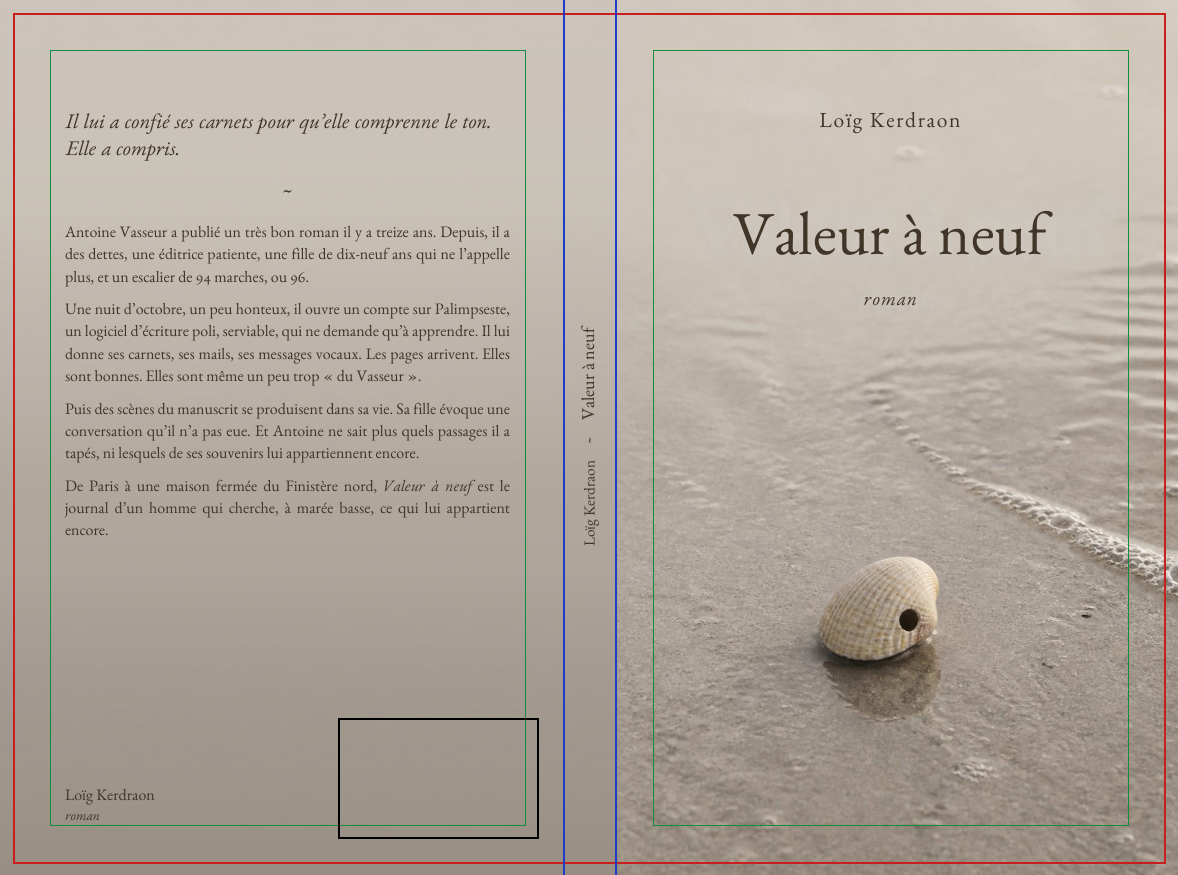
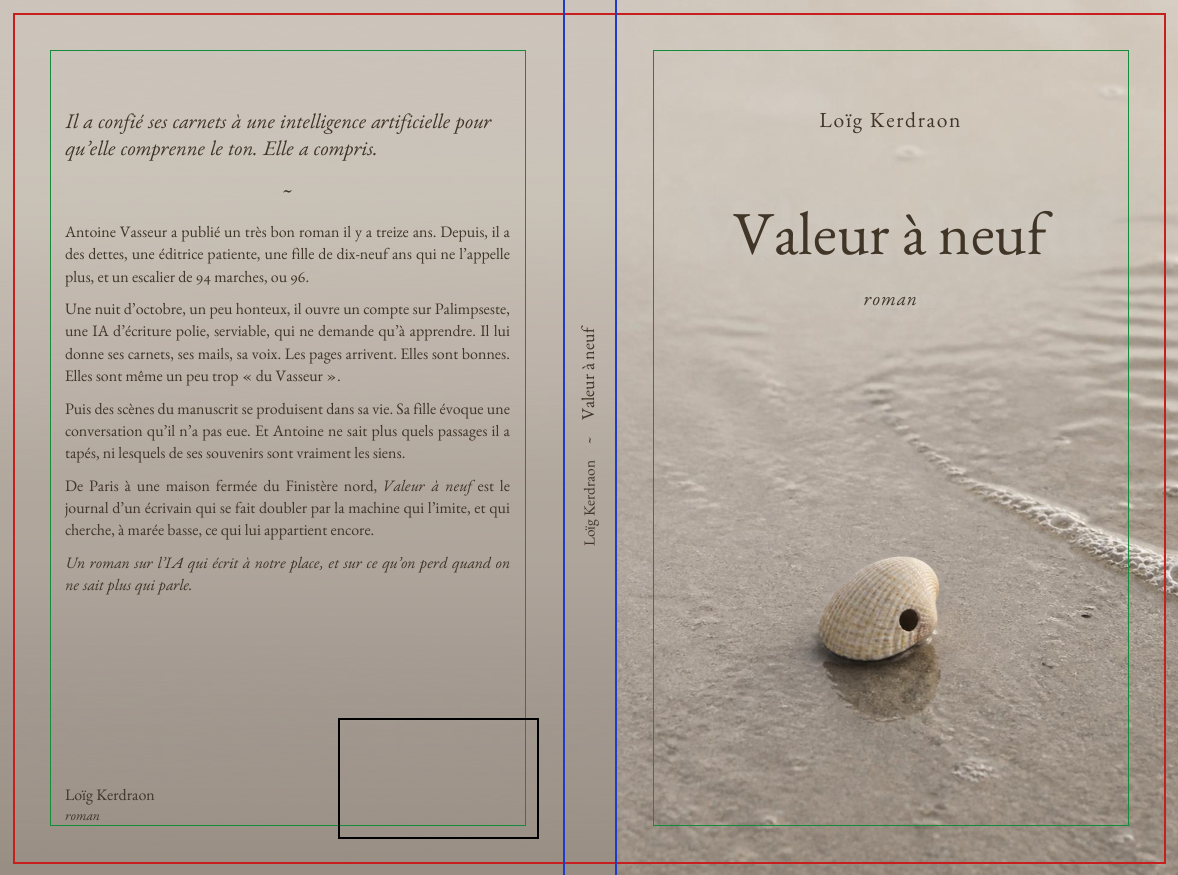
Quatrième et fiche Amazon : l'IA mise en avant, répétition « appartient encore » supprimée
Claude-Session: https://claude.ai/code/session_019M4foyq87Zm718jiSc4m96

diff --git a/outils/couverture.py b/outils/couverture.py
@@ -39,20 +39,21 @@ SECURITE = 0.375                            # marge intérieure du texte (KDP : 
 MARGE_DOS = 0.0625
 CODE_BARRES = (2.0, 1.2)
 
-ACCROCHE = "Il lui a confié ses carnets pour qu’elle comprenne le ton. Elle a compris."
+ACCROCHE = "Il a confié ses carnets à une intelligence artificielle pour qu’elle comprenne le ton. Elle a compris."
 QUATRIEME = [
     "Antoine Vasseur a publié un très bon roman il y a treize ans. Depuis, il a des dettes, "
     "une éditrice patiente, une fille de dix-neuf ans qui ne l’appelle plus, et un escalier "
     "de 94 marches, ou 96.",
-    "Une nuit d’octobre, un peu honteux, il ouvre un compte sur Palimpseste, un logiciel "
-    "d’écriture poli, serviable, qui ne demande qu’à apprendre. Il lui donne ses carnets, "
-    "ses mails, ses messages vocaux. Les pages arrivent. Elles sont bonnes. Elles sont même "
-    "un peu trop « du Vasseur ».",
+    "Une nuit d’octobre, un peu honteux, il ouvre un compte sur Palimpseste, une IA d’écriture "
+    "polie, serviable, qui ne demande qu’à apprendre. Il lui donne ses carnets, ses mails, sa "
+    "voix. Les pages arrivent. Elles sont bonnes. Elles sont même un peu trop «\u00a0du Vasseur\u00a0».",
     "Puis des scènes du manuscrit se produisent dans sa vie. Sa fille évoque une conversation "
     "qu’il n’a pas eue. Et Antoine ne sait plus quels passages il a tapés, ni lesquels de ses "
-    "souvenirs lui appartiennent encore.",
+    "souvenirs sont vraiment les siens.",
     "De Paris à une maison fermée du Finistère nord, <i>Valeur à neuf</i> est le journal d’un "
-    "homme qui cherche, à marée basse, ce qui lui appartient encore.",
+    "écrivain qui se fait doubler par la machine qui l’imite, et qui cherche, à marée basse, "
+    "ce qui lui appartient encore.",
+    "<i>Un roman sur l’IA qui écrit à notre place, et sur ce qu’on perd quand on ne sait plus qui parle.</i>",
 ]
 
 

diff --git a/sortie/description_amazon.md b/sortie/description_amazon.md
@@ -3,28 +3,28 @@
 ## Description (HTML accepté par KDP, à coller tel quel)
 
 ```html
-<p><b>Il lui a confié ses carnets pour qu'elle comprenne le ton. Elle a compris.</b></p>
+<p><b>Il a confié ses carnets à une intelligence artificielle pour qu'elle comprenne le ton. Elle a compris.</b></p>
 
 <p>Antoine Vasseur a publié un très bon roman il y a treize ans. Depuis, il a des dettes, une éditrice patiente, une fille de dix-neuf ans qui ne l'appelle plus, et un escalier de 94 marches, ou 96.</p>
 
-<p>Une nuit d'octobre, un peu honteux, il ouvre un compte sur Palimpseste, un logiciel d'écriture poli, serviable, qui ne demande qu'à apprendre. Il lui donne ses carnets, ses mails, ses messages vocaux. Les pages arrivent. Elles sont bonnes. Elles sont même un peu trop « du Vasseur ».</p>
+<p>Une nuit d'octobre, un peu honteux, il ouvre un compte sur Palimpseste, une IA d'écriture polie, serviable, qui ne demande qu'à apprendre. Il lui donne ses carnets, ses mails, ses messages vocaux. Les pages arrivent. Elles sont bonnes. Elles sont même un peu trop « du Vasseur ».</p>
 
 <p>Puis les choses se déplacent de quelques centimètres. Des scènes du manuscrit se produisent ensuite dans sa vie. Sa fille évoque une conversation qu'il n'a pas eue. Son ex-femme raconte autrement l'été où il a, dit-il, retrouvé leur fille entre deux rochers. Et Antoine ne sait plus quels passages il a tapés, ni lesquels de ses souvenirs lui appartiennent encore.</p>
 
 <p>De Paris à une maison fermée du Finistère nord, entre journal intime, extraits de manuscrit et historiques de conversation, <i>Valeur à neuf</i> est le roman d'un homme qui cherche, à marée basse, ce qui reste à lui quand une machine le connaît mieux que lui-même.</p>
 
-<p>Un roman sur la voix, la mémoire et la paternité, drôle et inquiétant, qui se relit autrement une fois refermé.</p>
+<p>Un roman sur l'IA qui écrit à notre place, sur la voix, la mémoire et la paternité. Drôle, inquiétant, et qui se relit autrement une fois refermé.</p>
 
 <p><i>Si vous relisez, commencez par le début.</i></p>
 ```
 
 ## Version texte brut (réseaux, site, 4e d'ebook)
 
-Il lui a confié ses carnets pour qu'elle comprenne le ton. Elle a compris.
+Il a confié ses carnets à une intelligence artificielle pour qu'elle comprenne le ton. Elle a compris.
 
-Antoine Vasseur a publié un très bon roman il y a treize ans. Depuis, il a des dettes, une éditrice patiente, une fille de dix-neuf ans qui ne l'appelle plus, et un escalier de 94 marches, ou 96. Une nuit d'octobre, il ouvre un compte sur Palimpseste, un logiciel d'écriture poli, serviable, qui ne demande qu'à apprendre. Les pages arrivent. Elles sont bonnes. Puis des scènes du manuscrit se produisent dans sa vie, et Antoine ne sait plus ce qu'il a tapé, ni ce dont il se souvient vraiment.
+Antoine Vasseur a publié un très bon roman il y a treize ans. Depuis, il a des dettes, une éditrice patiente, une fille de dix-neuf ans qui ne l'appelle plus, et un escalier de 94 marches, ou 96. Une nuit d'octobre, il ouvre un compte sur Palimpseste, une IA d'écriture polie, serviable, qui ne demande qu'à apprendre. Les pages arrivent. Elles sont bonnes. Puis des scènes du manuscrit se produisent dans sa vie, et Antoine ne sait plus ce qu'il a tapé, ni ce dont il se souvient vraiment.
 
-Un roman sur la voix, la mémoire et la paternité, qui se relit autrement une fois refermé.
+Un roman sur l'IA qui écrit à notre place, et sur ce qu'on perd quand on ne sait plus qui parle.
 
 ## Mots-clés KDP (7 cases, 50 caractères max chacune)
 
